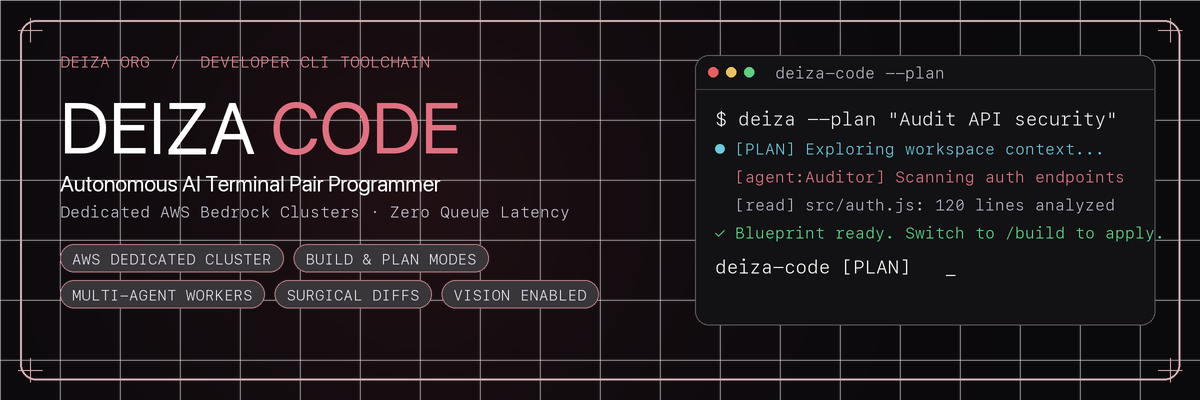
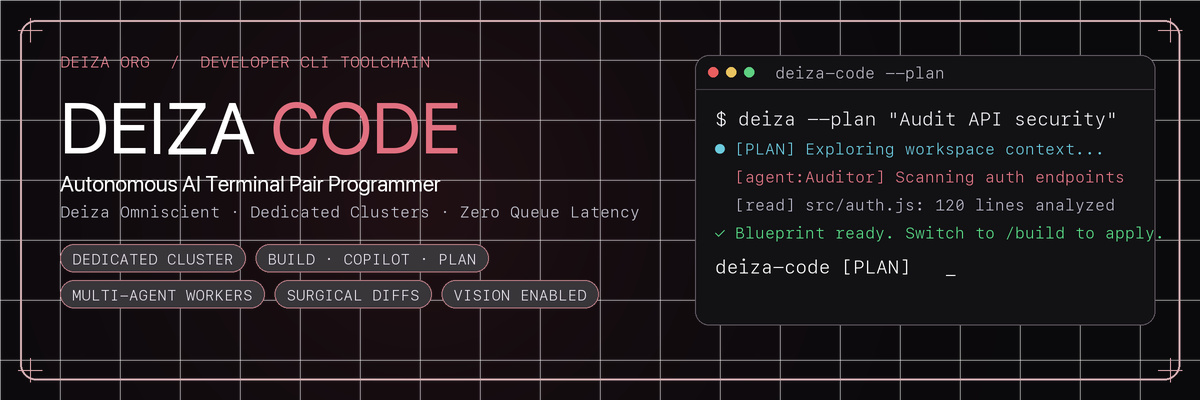
v1.4.0: open and Deiza editions from one codebase, no provider references
- scripts/bundle.js --flavor open|closed. The closed edition (shipped by the deiza.org installers)
  works exclusively with Deiza Omniscient and the account's usage quota: --endpoint/--model/--key,
  /endpoint, /config endpoint and DEIZA_ENDPOINT are refused or ignored, and the command palette
  and help hide them. The open edition (this repo) keeps any OpenAI-compatible engine.
- Engine is described as Deiza Omniscient (Deiza Liquid 5.1) on Deiza's dedicated infrastructure
  everywhere: CLI output, README, banner and demo GIF regenerated.

Changed region(s): [[0.0617, 0.51, 0.5242, 0.57], [0.0617, 0.6, 0.4008, 0.69]]

diff --git a/src/index.js b/src/index.js
@@ -9,7 +9,7 @@ const https = require('https');
 const { exec } = require('child_process');
 const readline = require('readline');
 const { C, BANNER, Status, box, COMMANDS_REGISTRY, MODE_INFO, modeBadge, renderModes, renderCommandPalette, renderWhoami, renderSessionList, renderSessionInfo } = require('./ui');
-const { loadConfig, saveConfig, DEFAULT_MODEL, VERSION, MODES, normalizeMode, normalizeUrl, isDeizaHost } = require('./config');
+const { loadConfig, saveConfig, DEFAULT_MODEL, VERSION, MODES, IS_CLOSED, normalizeMode, normalizeUrl, isDeizaHost } = require('./config');
 const { runLoginFlow, ensureAuthenticated, fetchModels, fetchUsage } = require('./auth');
 const { runAgentTurn, streamCompletion } = require('./agent');
 const { Tools } = require('./tools');
@@ -105,7 +105,7 @@ function printHeader(cfg, currentMode, models) {
     console.log(`  ${C.white}Motor:${C.reset} ${C.gold}Endpoint personalizado${C.reset} ${C.gray}${cfg.apiBase}${C.reset} · ${C.white}Modelo:${C.reset} ${C.granateBright}${cfg.model}${C.reset}`);
   } else {
     const label = (cfg.model.includes('omniscient') || cfg.model.includes('liquid'))
-      ? `${C.granateBright}Deiza Omniscient${C.reset} ${C.gray}[Liquid 5.1 · Amazon AWS Cluster]${C.reset}`
+      ? `${C.granateBright}Deiza Omniscient${C.reset} ${C.gray}[Deiza Liquid 5.1 · infraestructura dedicada]${C.reset}`
       : `${C.granateBright}${cfg.model}${C.reset}`;
     console.log(`  ${C.white}Motor:${C.reset} ${label}`);
   }
@@ -402,7 +402,7 @@ async function startRepl(initialConfig) {
         const pct = ((total / maxTokens) * 100).toFixed(2);
         const remaining = Math.max(0, maxTokens - total);
         let content = '';
-        content += `${C.white}Motor de Inferencia:${C.reset}     ${C.granateBright}${cfg.isCustomEndpoint ? cfg.model : 'deiza-omniscient'}${C.reset} ${cfg.isCustomEndpoint ? `${C.gray}(${cfg.apiBase})${C.reset}` : `${C.gray}(Liquid 5.1 / Kimi K2.5 · AWS Dedicated)${C.reset}`}\n`;
+        content += `${C.white}Motor de Inferencia:${C.reset}     ${C.granateBright}${cfg.isCustomEndpoint ? cfg.model : 'deiza-omniscient'}${C.reset} ${cfg.isCustomEndpoint ? `${C.gray}(${cfg.apiBase})${C.reset}` : `${C.gray}(Deiza Liquid 5.1 · infraestructura dedicada)${C.reset}`}\n`;
         content += `${C.white}Ventana de Contexto:${C.reset}     ${C.bold}1,000,000 (1M)${C.reset} tokens de sesión\n`;
         content += `${C.white}Tokens en Contexto:${C.reset}      ${C.bold}${C.green}${total.toLocaleString()}${C.reset} / 1,000,000 tokens (${pct}% ocupado)\n`;
         content += `${C.white}Capacidad Disponible:${C.reset}    ${C.bold}${remaining.toLocaleString()}${C.reset} tokens libres\n\n`;
@@ -497,7 +497,7 @@ async function startRepl(initialConfig) {
         const key = parts[1]?.toLowerCase();
         const val = parts[2];
         if (key === 'endpoint' && val) {
-          applyEndpoint(val);
+          if (IS_CLOSED) closedOnlyNotice(); else applyEndpoint(val);
         } else if (key === 'mode' && MODES.includes((val || '').toLowerCase())) {
           setMode(val, { persist: true });
         } else {
@@ -508,7 +508,7 @@ async function startRepl(initialConfig) {
           console.log(`  ${C.granateDark}│${C.reset}  ${C.white}Modelo:${C.reset}                 ${C.gray}${cfg.model}${C.reset}`);
           console.log(`  ${C.granateDark}│${C.reset}  ${C.white}Modo actual:${C.reset}            ${modeBadge(currentMode)} ${C.gray}(por defecto: ${cfg.defaultMode || 'build'})${C.reset}`);
           console.log(`${C.granateDark}└────────────────────────────────────────────────────────────┘${C.reset}`);
-          console.log(`  ${C.gray}Ajusta valores con: /config endpoint <url|deiza> · /config mode <build|copilot|plan>${C.reset}\n`);
+          console.log(`  ${C.gray}Ajusta valores con: ${IS_CLOSED ? '' : '/config endpoint <url|deiza> · '}/config mode <build|copilot|plan>${C.reset}\n`);
         }
         rl.prompt();
         return;
@@ -575,15 +575,17 @@ async function startRepl(initialConfig) {
         if (!cfg.isCustomEndpoint) {
           if (targetModel && targetModel.toLowerCase() !== DEFAULT_MODEL) {
             console.log(`\n  ${C.granateBright}✖ Modelo no válido:${C.reset} "${targetModel}"`);
-            console.log(`  En el motor nativo de Deiza el único modelo disponible es ${C.bold}deiza-omniscient${C.reset}.`);
-            console.log(`  ${C.gray}Para usar modelos locales o de terceros (Ollama, vLLM, OpenAI): /endpoint <url>${C.reset}\n`);
+            console.log(`  Deiza Code funciona con el motor ${C.bold}deiza-omniscient${C.reset}.`);
+            if (!IS_CLOSED) console.log(`  ${C.gray}Para usar modelos locales o de terceros (Ollama, vLLM, OpenAI): /endpoint <url>${C.reset}`);
+            console.log('');
           } else {
             cfg.model = DEFAULT_MODEL;
             saveConfig(cfg);
-            console.log(`\n${C.granateBold}Motor dedicado de Deiza Code:${C.reset}`);
-            console.log(`  ${C.green}●${C.reset} ${C.bold}deiza-omniscient${C.reset} (Liquid 5.1 · Kimi K2.5)`);
-            console.log(`    ${C.gray}Infraestructura:${C.reset}  Amazon AWS Dedicated High-Compute Clusters`);
-            console.log(`    ${C.gray}Especialidad:${C.reset}    Diffs quirúrgicos, multiagentes, visión y ejecución autónoma\n`);
+            console.log(`\n${C.granateBold}Motor de Deiza Code:${C.reset}`);
+            console.log(`  ${C.green}●${C.reset} ${C.bold}deiza-omniscient${C.reset} (Deiza Liquid 5.1)`);
+            console.log(`    ${C.gray}Infraestructura:${C.reset}  Clusters dedicados de Deiza`);
+            console.log(`    ${C.gray}Especialidad:${C.reset}    Diffs quirúrgicos, multiagentes, visión y ejecución autónoma`);
+            console.log(`    ${C.gray}Uso:${C.reset}             Se descuenta de la cuota de tu plan (${String(cfg.plan || '').toUpperCase()}) · /usage\n`);
           }
         } else if (targetModel) {
           cfg.model = targetModel;
@@ -599,6 +601,11 @@ async function startRepl(initialConfig) {
       }
 
       if (cmd === '/endpoint') {
+        if (IS_CLOSED) {
+          closedOnlyNotice();
+          rl.prompt();
+          return;
+        }
         const target = parts[1];
         if (target) {
           applyEndpoint(target, parts[2]);
@@ -696,6 +703,11 @@ async function startRepl(initialConfig) {
     rl.setPrompt(getPrompt());
     rl.prompt();
   });
+
+  function closedOnlyNotice() {
+    console.log(`\n  ${C.gold}Esta edición de Deiza Code funciona en exclusiva con ${C.bold}Deiza Omniscient${C.reset}${C.gold} y tu cuenta de Deiza.${C.reset}`);
+    console.log(`  ${C.gray}La edición open source con soporte de otros motores está en github.com/marcosdeaza/deiza-code${C.reset}\n`);
+  }
 
   function applyEndpoint(target, modelArg) {
     const t = String(target || '').trim().toLowerCase();

diff --git a/bin/deiza.js b/bin/deiza.js
@@ -6,7 +6,7 @@
 
 const readline = require('readline');
 const { C, Status, renderSessionList, renderSessionInfo, box } = require('../src/ui');
-const { loadConfig, saveConfig, VERSION, DEFAULT_MODEL, MODES, normalizeUrl, isDeizaHost } = require('../src/config');
+const { loadConfig, saveConfig, VERSION, DEFAULT_MODEL, MODES, IS_CLOSED, normalizeUrl, isDeizaHost } = require('../src/config');
 const { ensureAuthenticated, askLine } = require('../src/auth');
 const { startRepl } = require('../src/index');
 const { runAgentTurn } = require('../src/agent');
@@ -29,21 +29,22 @@ Opciones:
   -h, --help            Muestra este mensaje de ayuda
   -p, --prompt <texto>  Ejecuta una instrucción directa en modo no interactivo
   --login               Vuelve a iniciar sesión con tu cuenta de Deiza
-  --logout              Cierra la sesión guardada en esta máquina
+  --logout              Cierra la sesión guardada en esta máquina${IS_CLOSED ? '' : `
   --endpoint <url>      Motor OpenAI-compatible alternativo (Ollama, vLLM, OpenAI...)
   --model <id>          Modelo del endpoint alternativo
-  --key <apiKey>        Clave del endpoint alternativo (si la requiere)
+  --key <apiKey>        Clave del endpoint alternativo (si la requiere)`}
 
 Subcomandos:
   deiza session list|new|delete|info
   deiza tokens
 
-Deiza Code siempre necesita una cuenta de Deiza con plan de pago (Friend o Signet).
+Deiza Code siempre necesita una cuenta de Deiza con plan de pago (Friend o Signet).${IS_CLOSED ? `
+Motor: Deiza Omniscient (Deiza Liquid 5.1), con la cuota de uso de tu plan.` : ''}
 Ejemplos:
   deiza
   deiza --copilot
-  deiza -p "añade tests a src/utils.js"
-  deiza --endpoint http://localhost:11434 --model llama3
+  deiza -p "añade tests a src/utils.js"${IS_CLOSED ? '' : `
+  deiza --endpoint http://localhost:11434 --model llama3`}
 `);
 }
 
@@ -54,7 +55,7 @@ function printTokens(ses) {
   const pct = ((total / maxTokens) * 100).toFixed(2);
   const remaining = Math.max(0, maxTokens - total);
   let content = '';
-  content += `${C.white}Motor de Inferencia:${C.reset}     ${C.granateBright}deiza-omniscient${C.reset} ${C.gray}(Liquid 5.1 / Kimi K2.5 · AWS Dedicated)${C.reset}\n`;
+  content += `${C.white}Motor de Inferencia:${C.reset}     ${C.granateBright}deiza-omniscient${C.reset} ${C.gray}(Deiza Liquid 5.1 · infraestructura dedicada)${C.reset}\n`;
   content += `${C.white}Ventana de Contexto:${C.reset}     ${C.bold}1,000,000 (1M)${C.reset} tokens de sesión\n`;
   content += `${C.white}Tokens en Contexto:${C.reset}      ${C.bold}${C.green}${total.toLocaleString()}${C.reset} / 1,000,000 tokens (${pct}% ocupado)\n`;
   content += `${C.white}Capacidad Disponible:${C.reset}    ${C.bold}${remaining.toLocaleString()}${C.reset} tokens libres\n\n`;
@@ -138,7 +139,10 @@ async function main() {
   let inlinePrompt = null;
   for (let i = 0; i < args.length; i++) {
     const a = args[i];
-    if (a === '--endpoint' && args[i + 1]) {
+    if ((a === '--endpoint' || a === '--model' || a === '--key') && IS_CLOSED) {
+      console.log(`  ${C.gold}Opción ${a} ignorada: esta edición de Deiza Code funciona en exclusiva con Deiza Omniscient.${C.reset}`);
+      consumed.add(i); if (args[i + 1] && !args[i + 1].startsWith('-')) { consumed.add(i + 1); i++; }
+    } else if (a === '--endpoint' && args[i + 1]) {
       const url = normalizeUrl(args[i + 1]);
       if (url && !isDeizaHost(url)) {
         cfg.endpoint = url;

diff --git a/src/config.js b/src/config.js
@@ -19,9 +19,15 @@ const DEIZA_DIR = path.join(os.homedir(), '.deiza');
 const CONFIG_FILE = path.join(DEIZA_DIR, 'config.json');
 const SESSIONS_DIR = path.join(DEIZA_DIR, 'sessions');
 
-const VERSION = '1.3.1';
+const VERSION = '1.4.0';
 const DEFAULT_DEIZA_API = 'https://deiza.org';
 const DEFAULT_MODEL = 'deiza-omniscient';
+
+// Build flavor. 'open' = the GitHub edition (any OpenAI-compatible engine can be plugged in);
+// 'closed' = the deiza.org installer edition (Deiza Omniscient only, no endpoint options).
+// The bundler injects DEIZA_FLAVOR; running from the source tree defaults to open.
+const FLAVOR = (typeof DEIZA_FLAVOR !== 'undefined' && DEIZA_FLAVOR) || process.env.DEIZA_FLAVOR || 'open';
+const IS_CLOSED = FLAVOR === 'closed';
 const MODES = ['build', 'copilot', 'plan'];
 const DEFAULT_MODE = 'build';
 
@@ -59,12 +65,12 @@ function loadConfig() {
     }
   }
 
-  // v1.2 saved whatever `apiBase` the OPENAI_BASE_URL hijack produced (often a Bedrock URL), so a
+  // v1.2 saved whatever `apiBase` the OPENAI_BASE_URL hijack produced (a third-party URL), so a
   // legacy `apiBase` is ignored: only an endpoint chosen explicitly with --endpoint / /endpoint
   // (stored as `endpoint`) or DEIZA_ENDPOINT counts as a custom inference endpoint.
   const accountBase = normalizeUrl(process.env.DEIZA_API_URL || DEFAULT_DEIZA_API);
-  const savedEndpoint = normalizeUrl(fileConfig.endpoint || '');
-  const endpoint = normalizeUrl(process.env.DEIZA_ENDPOINT || savedEndpoint);
+  const savedEndpoint = IS_CLOSED ? '' : normalizeUrl(fileConfig.endpoint || '');
+  const endpoint = IS_CLOSED ? '' : normalizeUrl(process.env.DEIZA_ENDPOINT || savedEndpoint);
   const apiBase = endpoint && !isDeizaHost(endpoint) ? endpoint : accountBase;
   const apiKey = String(process.env.DEIZA_API_KEY || fileConfig.apiKey || '').trim();
   const isCustom = apiBase !== accountBase;
@@ -100,6 +106,8 @@ function saveConfig(cfg) {
 
 module.exports = {
   VERSION,
+  FLAVOR,
+  IS_CLOSED,
   DEIZA_DIR,
   CONFIG_FILE,
   SESSIONS_DIR,

diff --git a/scripts/bundle.js b/scripts/bundle.js
@@ -3,6 +3,14 @@ const path = require('path');
 
 const ROOT = path.resolve(__dirname, '..');
 
+// node scripts/bundle.js [--flavor open|closed] [--out <file>]
+//   open   -> GitHub edition: any OpenAI-compatible engine can be plugged in (default)
+//   closed -> deiza.org installer edition: Deiza Omniscient only, no endpoint options
+const argv = process.argv.slice(2);
+const argValue = (flag, def) => { const i = argv.indexOf(flag); return i !== -1 && argv[i + 1] ? argv[i + 1] : def; };
+const FLAVOR = argValue('--flavor', 'open') === 'closed' ? 'closed' : 'open';
+const OUT = argValue('--out', FLAVOR === 'closed' ? 'dist/deiza-code-closed.js' : 'dist/deiza-code.js');
+
 function read(rel) {
   return fs.readFileSync(path.join(ROOT, rel), 'utf-8');
 }
@@ -22,12 +30,14 @@ const header = `#!/usr/bin/env node
 
 /**
  * DEIZA CODE — Autonomous Terminal Coding Agent
- * Official Standalone CLI Distribution
- * Powered by Deiza Omniscient (Liquid 5.1) on Amazon AWS Compute Clusters
+ * Official Standalone CLI Distribution (${FLAVOR === 'closed' ? 'Deiza Omniscient edition' : 'open edition'})
+ * Powered by Deiza Omniscient (Deiza Liquid 5.1)
  * https://deiza.org
  */
 
 'use strict';
+
+const DEIZA_FLAVOR = '${FLAVOR}';
 
 const fs = require('fs');
 const path = require('path');
@@ -77,11 +87,9 @@ const fullBundle = [
   binCode,
 ].join('\n\n');
 
-const distDir = path.join(ROOT, 'dist');
-if (!fs.existsSync(distDir)) fs.mkdirSync(distDir, { recursive: true });
-
-const bundlePath = path.join(distDir, 'deiza-code.js');
+const bundlePath = path.resolve(ROOT, OUT);
+fs.mkdirSync(path.dirname(bundlePath), { recursive: true });
 fs.writeFileSync(bundlePath, fullBundle, 'utf-8');
 fs.chmodSync(bundlePath, 0o755);
 
-console.log(`Bundled successfully to ${bundlePath} (${fs.statSync(bundlePath).size} bytes)`);
+console.log(`Bundled ${FLAVOR} edition to ${bundlePath} (${fs.statSync(bundlePath).size} bytes)`);

diff --git a/src/ui.js b/src/ui.js
@@ -3,7 +3,7 @@
  * Granate / Burgundy palette (#8C2F39) with clean, modern developer UX.
  */
 
-const { VERSION } = require('./config');
+const { VERSION, IS_CLOSED } = require('./config');
 
 const C = {
   reset: '\x1b[0m',
@@ -231,7 +231,7 @@ function renderWhoami({ email, name, plan, apiKey, apiBase, isCustom, usage, cur
     content += `${C.white}Tokens Utilizados:${C.reset}  ${usage.tokens_used.toLocaleString()} / ${usage.token_limit.toLocaleString()} (${usedPct}%)\n`;
     content += `${C.white}Ventana 5 Horas:${C.reset}    ${C.gray}${resetText}${C.reset}\n`;
   }
-  content += `${C.white}Motor de Inferencia:${C.reset} ${isCustom ? `${C.granateBright}${C.reset}` : `${C.granateBright}Deiza Omniscient${C.reset} ${C.gray}[Liquid 5.1 · Amazon AWS Dedicated Cluster]${C.reset}`}`;
+  content += `${C.white}Motor de Inferencia:${C.reset} ${isCustom ? `${C.granateBright}${C.reset}` : `${C.granateBright}Deiza Omniscient${C.reset} ${C.gray}[Deiza Liquid 5.1 · infraestructura dedicada]${C.reset}`}`;
 
   return box('Perfil de Usuario — Deiza Code', content, C.granate);
 }

diff --git a/src/auth.js b/src/auth.js
@@ -149,7 +149,7 @@ async function fetchUsage(apiKey, accountBase = DEFAULT_DEIZA_API) {
 
 async function fetchModels(apiKey, accountBase = DEFAULT_DEIZA_API) {
   const fallback = [
-    { id: 'deiza-omniscient', name: 'Deiza Omniscient', description: 'Motor autónomo Liquid 5.1 en clusters dedicados AWS' },
+    { id: 'deiza-omniscient', name: 'Deiza Omniscient', description: 'Motor autónomo Deiza Liquid 5.1 en infraestructura dedicada de Deiza' },
   ];
   const res = await jsonRequest('GET', `${accountBase}/api/code/models`, { apiKey, timeout: 5000 });
   if (res.ok && res.data && Array.isArray(res.data.models) && res.data.models.length) return res.data.models;

diff --git a/scripts/generate_demo_gif.py b/scripts/generate_demo_gif.py
@@ -52,7 +52,7 @@ startup_lines = [
     ("  Autonomous Terminal Coding Agent · v1.2.0", C_GRAY),
     ("", C_WHITE),
     ("  Cuenta: marcos@deiza.org · [SIGNET] · Uso: 14% (4h 12m restantes)", C_WHITE),
-    ("  Modelo activo: Deiza Omniscient [Liquid 5.1 · Amazon AWS Cluster] (BETA)", C_GRANATE),
+    ("  Modelo activo: Deiza Omniscient [Deiza Liquid 5.1 · infraestructura dedicada]", C_GRANATE),
     ("  Workspace: /Users/marcos/projects/api-service [Node.js / TS] · git:main", C_GRAY),
     ("  ● Sesión persistente restaurada: ses_20260919_7a1b (6 mensajes guardados)", C_ROSE),
     ("  Usa /new para iniciar limpia o /history para ver sesiones anteriores.", C_GRAY),
@@ -160,7 +160,7 @@ for step in execution_steps:
 # 5. Hold final frame ~3.5s
 save_frame(base_lines, hold=45)
 
-gif_output = "/Users/marcos/.gemini/antigravity/scratch/deiza-code/assets/demo.gif"
+gif_output = "assets/demo.gif"
 palette = os.path.join(frames_dir, "palette.png")
 
 print(f"Generated {frame_idx} frames. Compiling high-fidelity GIF with ffmpeg...")

diff --git a/scripts/generate_banner.py b/scripts/generate_banner.py
@@ -84,12 +84,12 @@ draw.text((kicker_x + deiza_w, title_y), "CODE", font=font_title, fill=(225, 112
 # 6. Tagline
 sub_y = title_y + 86 * SCALE
 draw.text((kicker_x, sub_y), "Autonomous AI Terminal Pair Programmer", font=font_tag, fill=(255, 255, 255, 240))
-draw.text((kicker_x, sub_y + 32 * SCALE), "Dedicated AWS Bedrock Clusters · Zero Queue Latency", font=font_mono_small, fill=(180, 180, 195, 200))
+draw.text((kicker_x, sub_y + 32 * SCALE), "Deiza Omniscient · Dedicated Clusters · Zero Queue Latency", font=font_mono_small, fill=(180, 180, 195, 200))
 
 # 7. Sleek Pill badges (arranged in two clean compact rows on left side)
 pill_row1 = [
-    "AWS DEDICATED CLUSTER",
-    "BUILD & PLAN MODES",
+    "DEDICATED CLUSTER",
+    "BUILD · COPILOT · PLAN",
 ]
 pill_row2 = [
     "MULTI-AGENT WORKERS",

diff --git a/README.md b/README.md
@@ -29,17 +29,26 @@ Mira a **Deiza Code** analizando el repositorio, realizando preguntas interactiv
 
 ## ✨ ¿Qué es Deiza Code?
 
-**Deiza Code** es un agente agéntico de desarrollo para terminal inspirado en la velocidad, ergonomía y precisión de *Claude Code*. 
+**Deiza Code** es un agente agéntico de desarrollo para terminal inspirado en la velocidad, ergonomía y precisión de *Claude Code*.
 
-Impulsado en exclusiva por el modelo **Deiza Omniscient (Liquid 5.1)**, conectado a clusters de alta capacidad en Amazon AWS para garantizar velocidad extrema y diffs quirúrgicos sin colas de espera. Disponible exclusivamente para cuentas con **planes de pago (Friend o Signet)** con sincronización de créditos y ventana de 5 horas mediante inicio de sesión en un solo clic desde tu navegador.
+Impulsado por el modelo **Deiza Omniscient (Deiza Liquid 5.1)** en la infraestructura dedicada de Deiza: diffs quirúrgicos, ejecución autónoma y visión, sin colas de espera. Requiere una cuenta de Deiza con **plan de pago (Friend o Signet)**: la cuota se sincroniza con tu ventana de uso de 5 horas y el login se hace en un clic desde el navegador.
 
-> 🚀 **Cero Lock-in:** Aunque tira de forma nativa de la infraestructura de **deiza.org**, el motor está desacoplado para que puedas **reciclarlo y reutilizarlo como CLI agéntica con cualquier otro proyecto o endpoint de IA** (Ollama, OpenAI, DeepSeek, vLLM, LM Studio, etc.).
+### Dos ediciones, un mismo código
+
+| | Edición **open** (este repositorio) | Edición **Deiza** (instalador de deiza.org) |
+| :--- | :--- | :--- |
+| Login con cuenta de Deiza | Obligatorio | Obligatorio |
+| Motor por defecto | Deiza Omniscient | Deiza Omniscient |
+| Otros motores (`--endpoint`, `/endpoint`) | Sí: cualquier servidor OpenAI-compatible (Ollama, vLLM, LM Studio, OpenAI…) | No: funciona en exclusiva con Deiza Omniscient y tu cuota |
+| Build | `node scripts/bundle.js` | `node scripts/bundle.js --flavor closed` |
+
+> 🚀 **Cero Lock-in en la edición open:** el motor está desacoplado para que puedas **reciclar Deiza Code como CLI agéntica con cualquier otro proyecto o endpoint de IA**.
 
 ---
 
-## 🔄 Reciclaje Universal: Usa Cualquier IA
+## 🔄 Reciclaje Universal: Usa Cualquier IA (edición open)
 
-Deiza Code siempre arranca con tu **cuenta de Deiza** (plan Friend o Signet). Una vez dentro, puedes cambiar el motor que responde por **cualquier modelo o proveedor** que soporte la especificación estándar OpenAI `/chat/completions`:
+Deiza Code siempre arranca con tu **cuenta de Deiza** (plan Friend o Signet). En la edición open, una vez dentro puedes cambiar el motor que responde por **cualquier modelo o proveedor** que soporte la especificación estándar OpenAI `/chat/completions`:
 
 ### 1. Con Ollama en local (DeepSeek-Coder, Llama 3, Qwen)
 ```bash
@@ -111,6 +120,8 @@ curl -fsSL https://deiza.org/install.sh | bash
 irm https://deiza.org/install.ps1 | iex
 ```
 
+> Los instaladores de deiza.org distribuyen la **edición Deiza** (solo Deiza Omniscient). Para la edición open, clona este repositorio o instala por npm.
+
 ### 🧠 Neural / AI Agent (Instalación Desatendida)
 Pega este prompt directamente en tu agente de IA (Claude Code, Antigravity, Cursor, etc.):
 ```text
@@ -150,7 +161,7 @@ npm install -g deiza-code
 | `/model [id]` | Consulta o cambia el modelo en caliente |
 | `/usage` | Consulta el consumo de tokens y la cuenta atrás de la ventana de 5 horas |
 | `/config` | Consulta o ajusta opciones locales (`~/.deiza/config.json`) |
-| `/endpoint [url\|deiza]` | Usa otro motor OpenAI-compatible (Ollama, OpenAI, vLLM) o vuelve a Deiza |
+| `/endpoint [url\|deiza]` | Usa otro motor OpenAI-compatible (Ollama, OpenAI, vLLM) o vuelve a Deiza *(solo edición open)* |
 | `/init` | Crea un archivo de directivas `.deizarules` en la raíz de tu proyecto |
 | `/clear` | Limpia el historial de la conversación actual |
 | `/login` | Inicia sesión con selector interactivo (Navegador Web 1-Clic o API Key directa) |
@@ -186,9 +197,9 @@ Opciones:
   -p, --prompt <texto>  Ejecuta una instrucción directa en modo no interactivo
   --login               Vuelve a iniciar sesión con tu cuenta de Deiza
   --logout              Cierra la sesión guardada en esta máquina
-  --endpoint <url>      Motor OpenAI-compatible alternativo (Ollama, vLLM, OpenAI...)
-  --model <id>          Modelo del endpoint alternativo
-  --key <apiKey>        Clave del endpoint alternativo (si la requiere)
+  --endpoint <url>      Motor OpenAI-compatible alternativo (Ollama, vLLM, OpenAI...)  [edición open]
+  --model <id>          Modelo del endpoint alternativo                                [edición open]
+  --key <apiKey>        Clave del endpoint alternativo (si la requiere)                [edición open]
 ```
 
 ---
@@ -216,6 +227,8 @@ deiza-code/
 ├── examples/
 │   ├── custom-endpoint.sh # Ejemplos de integración con Ollama y OpenAI
 │   └── deizarules.example # Plantilla de directivas de desarrollo
+├── scripts/
+│   └── bundle.js         # Empaqueta todo en un solo archivo (--flavor open|closed)
 ├── package.json
 └── README.md
 ```
